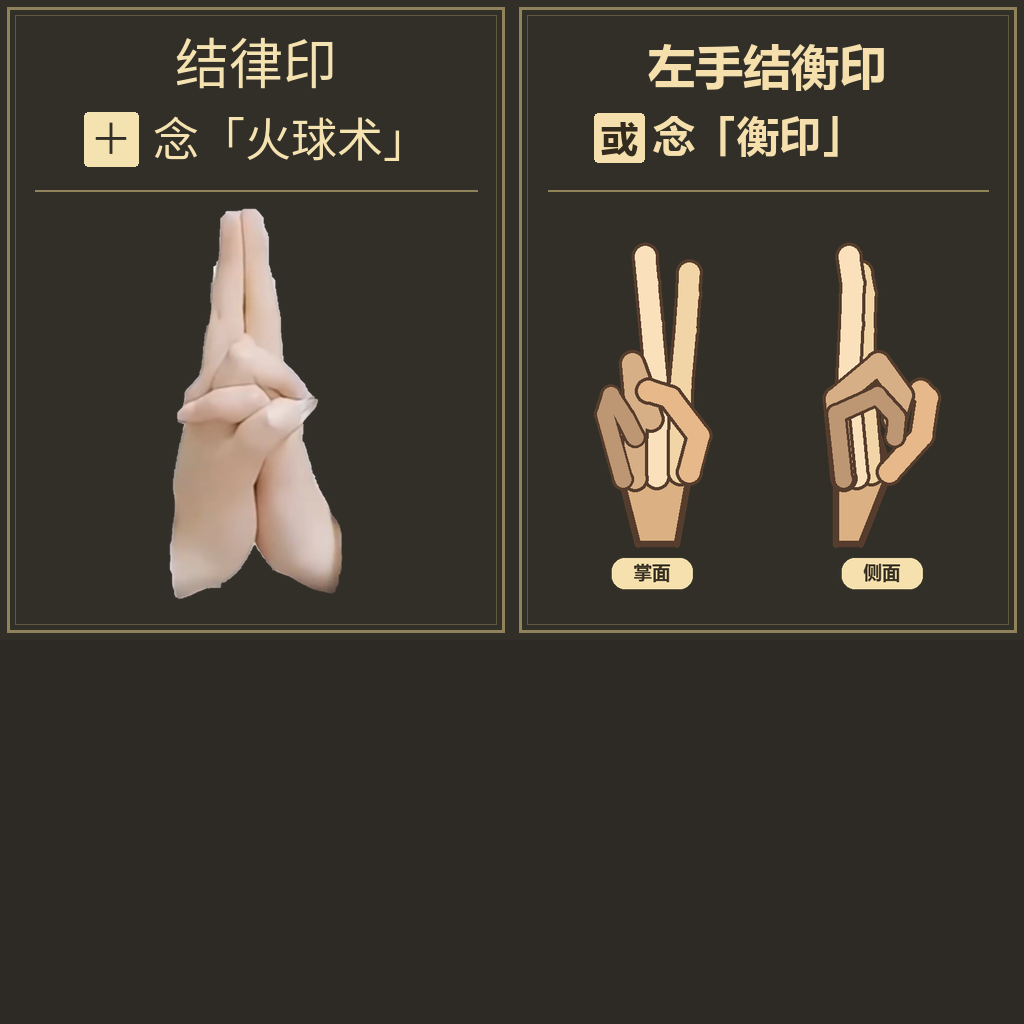
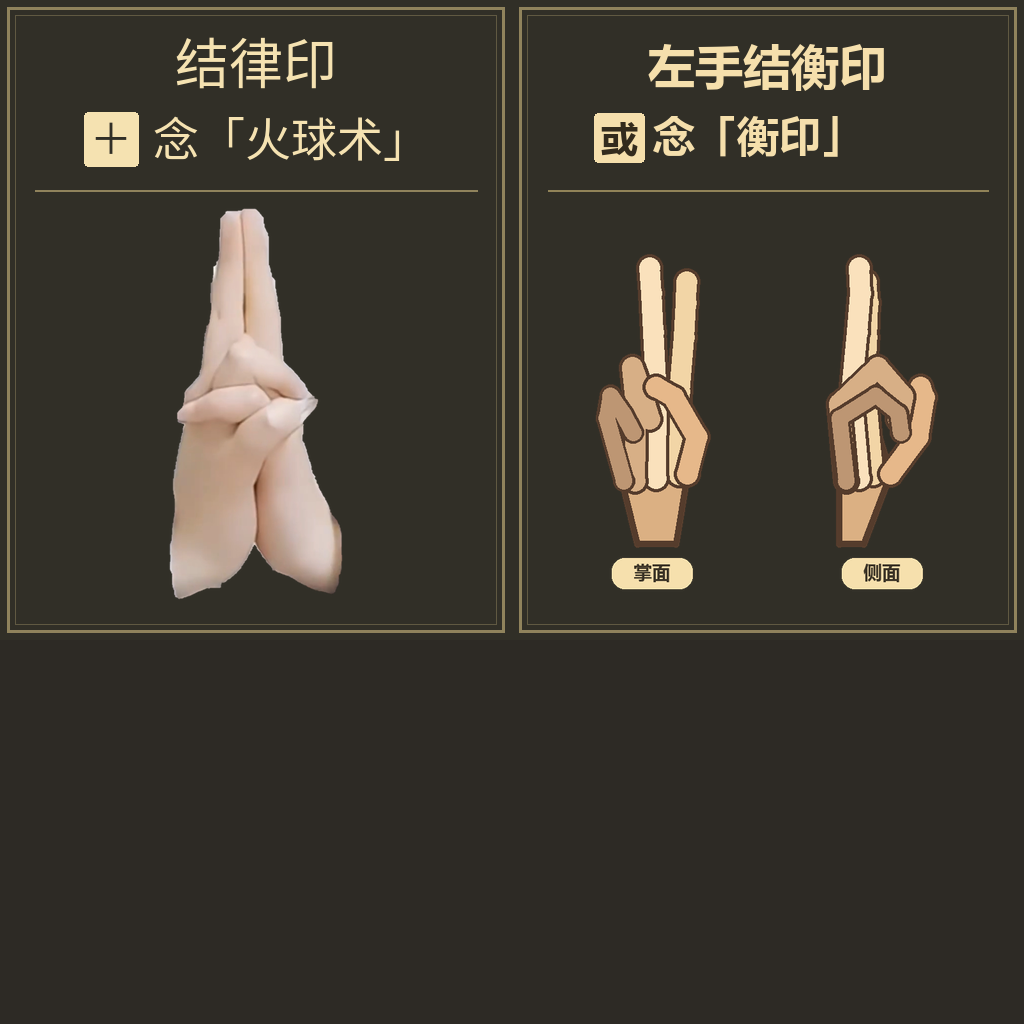
Sync revised Heng seal calibration and teaching art to PICO

Changed region(s): [[0.7812, 0.2188, 0.9375, 0.5312], [0.5938, 0.2188, 0.6875, 0.5]]

diff --git a/docs/architecture/SIX_SEAL_DESIGN_ZH.md b/docs/architecture/SIX_SEAL_DESIGN_ZH.md
@@ -15,9 +15,9 @@
 | **律印** | [寅](../../Assets/Resources/Teaching/Seals/律印.png) | 双食指并拢向上，其余手指合扣，形成双柱；**鸣律** | 起律、激发、成核。“律印＋火球术”激活火球。 | 已有标定规则 |
 | **准印** | [申](../../Assets/Resources/Teaching/Seals/准印.png) | 两手平展交叠，指向相反，整体横向延伸；**平准** | 校齐、平定、稳定。适合水位、平台或机构校准的后续设计。 | 空模板，需采样 |
 | **绳印** | [午](../../Assets/Resources/Teaching/Seals/绳印.png) | 双食指斜向相接成顶角，下方展开，形成张开的三角轮廓；**张绳** | 牵引、联结、约束。取张绳成线之意，不要求真的拉开双手。 | 空模板，需采样 |
-| **衡印** | 旧双手参考图，待换 | 左手单独结印，具体指形待重新录制确认；**镇衡** | 左手护盾、承重、配重、镇定。与准印的“校齐”区分，强调力与重量。 | 空模板，需采样 |
+| **衡印** | [左手实录教学图](../../Assets/Resources/Teaching/Seals/衡印.png) | 左手单独结印；以当前实录规则及教学图为准，**镇衡** | 左手护盾、承重、配重、镇定。与准印的“校齐”区分，强调力与重量。 | 已有单左手标定规则 |
 
-前三种配置的 `calibrated` 为真，均有 45 条规则条目；这只说明已有配置，不代表各条都有有效权重，也不代表本轮验证了识别效果。后三种当前 `calibrated` 为假且规则为空。
+衡印已标定为单左手。2026-11-27 的新版模板以 210 个有效左手观测生成 18 条规则，持续持印时间为 0.15 秒。腕匣与首章教学板使用同次录制生成的手形图。旧录制供回查，相近手形仍按新版模板评分。规、矩、律已有标定，准、绳继续按工程当前配置采样验收。
 
 ## 六种不再进入主教学集合的原型
 
@@ -36,11 +36,11 @@
 
 铜叶负责解锁术式，手印负责施术时的动作输入，二者没有一一对应的数量约束。继续保留五种铜叶及圆盘上的 **规、矩、律、准、绳**；增加衡印不增加第六种铜叶，也不把用户已定的“律”改回“衡”。铜叶全名仍为方圆规印、勾股矩印、负衡律印、平准水度、直绳雷度。
 
-首章仍只教两种：规印施放护盾，律印承接火球组合。其余四种随相关术式和机关教学逐步引入，不在第一次教学连续要求六印，也不把每次施法改成六印连招。矩印已有规则并不意味着它必须在首章开放。
+首章仍只教两种：衡印施放护盾，律印承接火球组合。其余四种随相关术式和机关教学逐步引入，不在第一次教学连续要求六印，也不把每次施法改成六印连招。矩印已有规则并不意味着它必须在首章开放。
 
 同一手印可以配不同口令选择术式，保持已有 GestureOnly、VoiceOnly、Combination 三种触发方式。现有纯口令的护体咒及独立雷光剑样机不因这次命名自动增加结印要求。技能 ID、解锁记录和伤害数值不属于此次设计变更。
 
-首章护盾与火球的两种手法统一显示为规印和律印。
+首章护盾与火球的两种手法统一显示为衡印和律印，沿用 `HENG-SHIELD-UNIFY-20261123` 的已实施命名。
 
 ## 教学与识别约束
 
@@ -61,7 +61,7 @@
 5. 首章 FR01 与 SH01 沿用原句的角色音色补录，分别改念律印与规印。
 6. 两份世界设定、首章设计和操作指南、程序/策划/美术/音频需求及参考表，分别记录当前版本和历史资料。
 
-头显验收目标是：活动集合恰好六印；技能与教学图能按新名称解析；首章两印、纯口令路径和腕部基础交互不回退；准印、绳印、衡印完成实际采样并通过六印混淆检查。当前规印、矩印、律印可用于有序配方。准印、绳印、衡印保留空模板，待真机采样与六印混淆测试。
+头显验收目标是：活动集合恰好六印；技能与教学图能按新名称解析；首章两印、纯口令路径和腕部基础交互不回退；准印、绳印、衡印完成实际采样并通过六印混淆检查。当前规印、矩印、律印可用于有序配方。衡印使用单左手录制模板。准印、绳印仍为空模板，六印混淆测试待完成。
 
 ## 核对依据
 

diff --git a/docs/模型交火/需求变更交接.md b/docs/模型交火/需求变更交接.md
@@ -7189,3 +7189,22 @@ PICO APK 位于 Builds/Pico/NarutoVR-PICO-Chapters.apk，SHA-256 为 DCA14CB4179
 旧 APK 词表有 263 个 CRLF，共 2,191 字节。20:01 录屏对应的真机事件明确记录 tokens.txt 校验失败。沿用已验 Android 导出重出包，比较 ZIP 负载，唯一变化为 tokens.txt。4 个模型文件逐一匹配清单，签名 v2 验证通过。ADB 覆盖安装后冷启动，20:07:43 真机状态为设备内离线识别，Android audio input 16,000 Hz 持续采样，后续诊断记录 40/127 有声帧。实际口令命中待用户稍后复测。
 
 章节包路径为 Builds/Pico/NarutoVR-PICO-Chapters.apk，SHA-256 为 2691DD06B6A285A5D15DD4732B558E2D78BF92475C9EA08AB3F157F9FCC9F0DB。改前记录、重包、装机和修复后采样证据均在 Logs/PicoDevice1127。主仓 Quest 工程未参与语音热修。
+
+## REQ-20261127-PICO-HENG-SYNC｜同步 Quest 新版衡印标定
+
+- 任务 ID：PICO-HENG-SYNC-20261127
+- 模型：GPT-6（细分型号未提供），执行入口 Codex Desktop。
+- 时间：2026-11-27T20:43:15+08:00
+- 来源与状态：按用户要求同步 Quest 已落盘的 HENG-CALIBRATION-1127-REQ。PICO 工程已经更新。
+
+### 文件清单
+
+- Assets/ScriptableObjects/手印识别配置/衡印.asset 同步 210 个左手观测生成的 18 条区间。单左手、0.80 匹配门槛、0.15 秒保持与成印反馈连接沿用原配置。
+- Assets/Resources/Teaching/Seals/衡印.png 同步新版掌面和侧面教学图。
+- Assets/Materials/Chapter01/SealInstructionAtlas.png 同步衡印图区，图集其余像素一致。
+- docs/architecture/SIX_SEAL_DESIGN_ZH.md 更新衡印标定、教学图和首章护盾的对应说明。
+- docs/模型交火/需求变更交接.md 追加本条。
+
+### 验证
+
+三份资产逐字节与 Quest 一致，原 .meta 保留。新版模板 SHA-256 为 bee063908a95b9b5c8d25eafb6171f8ad4fe394b6ddd33c773f436a5bced32a3。核对两份首章和二章场景均引用现有模板 GUID，左手护盾定义和成印 Prefab 与来源一致。Quest 隔离回放的来源证据为 D:/UnityProjects/NarutoVR/Tools/Validation/Evidence/HengCalibration1127/unity-replay.txt。本轮为工程资产同步，PICO APK 未重打，头显未复测。
